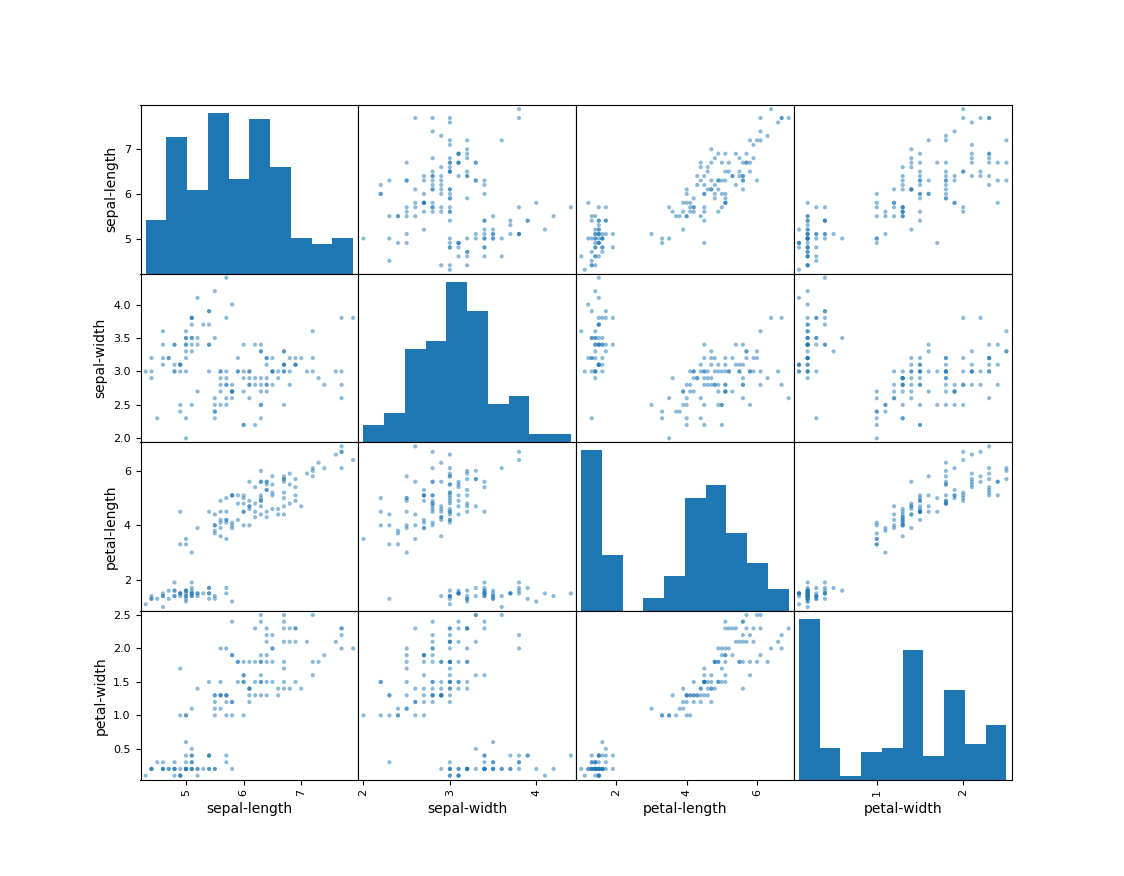
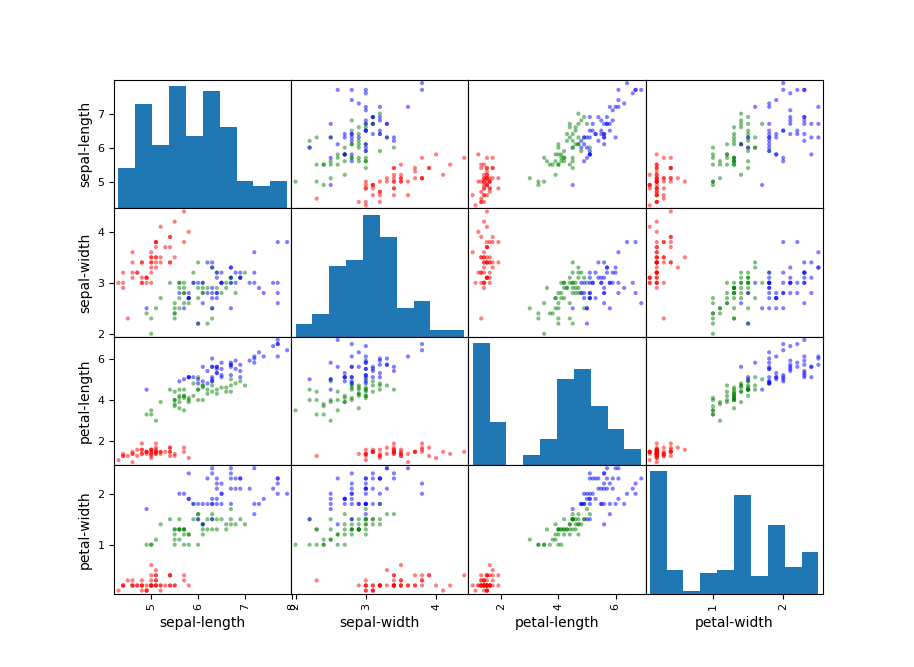
Update readme.md. Brief Python project program description added. Modification of scatter.png file adding different colours to the graphs. Cosmetic changes in segregation.py file.

diff --git a/segregation.py b/segregation.py
@@ -5,8 +5,6 @@
 import os
 # Import timer to use in time sleep
 import time
-# Import numpy 
-import numpy as np
 # Use pandas to work on data analysis and create useful outputs.
 import pandas
 # Import colour map
@@ -28,9 +26,9 @@ else:
     cl = "clear"
 
 os.system(cl)
-print("Welcome to Programing and Scripting Project Program about the Iris Data Set")
-print("This program contains the Iris data set which was automaticaly loaded in to the program.")
-print("You can choose from the following menu option to display basic information and plot different graphs\n")
+print("Welcome to Programing and Scripting Project Program about the Iris Data Set.")
+print("This program contains the Iris data set which was automatically loaded into the program.")
+print("You can choose from the following menu option to display basic information and plot different graphs.\n")
 
 # Creating simple menu for user choice
 def menu():       
@@ -96,7 +94,7 @@ while cond:
         elif n==7:
             # This will make the while loop to end 
             os.system(cl)
-            print("Thank you for using this program :)\nGood Bye!")
+            print("Thank you for using this program :)\nGoodbye!")
             # Wait for displaying a message for 2s
             time.sleep(2)
             cond=False     

diff --git a/README.md b/README.md
@@ -104,13 +104,13 @@ The simple box and whisker plots of each variable present a clear idea of the di
 
 ![Plot 1](Outputs/box_and_whisker_plot.png)
 
-Using just one line of code **dataset.hist()** histogram of each input can be created.
+Using just one line of code ***dataset.hist()*** histogram of each input can be created.
 
 ![Histograms](Outputs/histogram.png)
 
 The histogram demonstrates that two of the input variables have a [Gaussian distribution][2]. 
 
-It is also extremely easy in Python (**scatter_matrix(dataset)**) to generate scatter matrix plot for each variable of iris data set.
+It is also extremely easy in Python (***scatter_matrix(dataset)***) to generate scatter matrix plot for each variable of iris data set.
 
 ![Scatter](Outputs/scatter.png)
 
@@ -125,7 +125,60 @@ Using Wikipedia [scatter][3] examples as references look like most of the scatte
 
 ## Brief Python project program description
 
+The Phyton program **segregation.py** was created to allow user basic interaction with the Iris data set. The program was updated a few times and evolved during this project creation. There are many approaches to load and read Iris data set in Python however in this basic program the solution that reflect final Project requirement was used. The Iris data set **iris.data** was downloaded from the UCI repository and it was not modified to a different format (csv and columns name) to show that Python can handle that kind of raw file. Mainly libraries like pandas and matplotlib were used to work on the data set.
 
+To run this program the Python enviroment is required on the PC. Following steps help to setup software for the first run.
+
+* Install Python on your PC. You can use [Anaconda Distribution](https://www.anaconda.com/distribution/).  
+* Use Command Prompt (you can use any console i.e. [Cmder](https://cmder.net/)) and navigate to the folder where you downloaded this repository programs.
+* Type python "program name that you want to run" i.e. python segregation.py.
+
+The program is loading data set in the background at the start from the folder Dataset and then welcome screen with "Menu" is displayed.
+
+```python
+Welcome to Programing and Scripting Project Program about the Iris Data Set.
+This program contains the Iris data set which was automatically loaded into the program.
+You can choose from the following menu option to display basic information and plot different graphs.
+
+------------------------------ MENU ------------------------------
+1. Display information about row and columns in data set
+2. Display first 10 rows of segregated data
+3. Display the statistical summary
+4. Display box and whiskers plots
+5. Display histogram of each input variable
+6. Display scatter matrix plot
+7. Exit
+------------------------------------------------------------------
+Enter your selection [1-7]:
+```
+In this section of code the ***def*** statement together with ***while*** loop and ***if*** condition was used to create **menu()** function. 
+
+The first three menu options provide basic and statistical information about the data set and involve pandas libraries to carried out this task.
+
+* ***print(dataset.shape)*** return dimensions and size of data frame. In this case number of rows and columns.
+* ***print(dataset.head(10))*** display first ten rows of data set.
+* ***print(dataset.describe())*** shows basic statistical details of data frame.
+
+Next three positions of the menu (4-6) were clearly described in the [Visualization of results](#Visualization of results) paragraph. 
+
+The terminal window is going to be cleared after any selection from the menu regardless of the operating system. This involve **os** library.
+
+```python
+if os.name =="nt":
+    cl = "cls"
+else:
+    cl = "clear"
+
+os.system(cl)
+```
+
+Program is running continuously allows the user to make more choices from the menu until option seven is selected. This will terminate the program and display a goodbye message.
+
+```python
+Thank you for using this program :)
+Goodbye!
+```
+ 
 ## Conclution and summary
 
 
